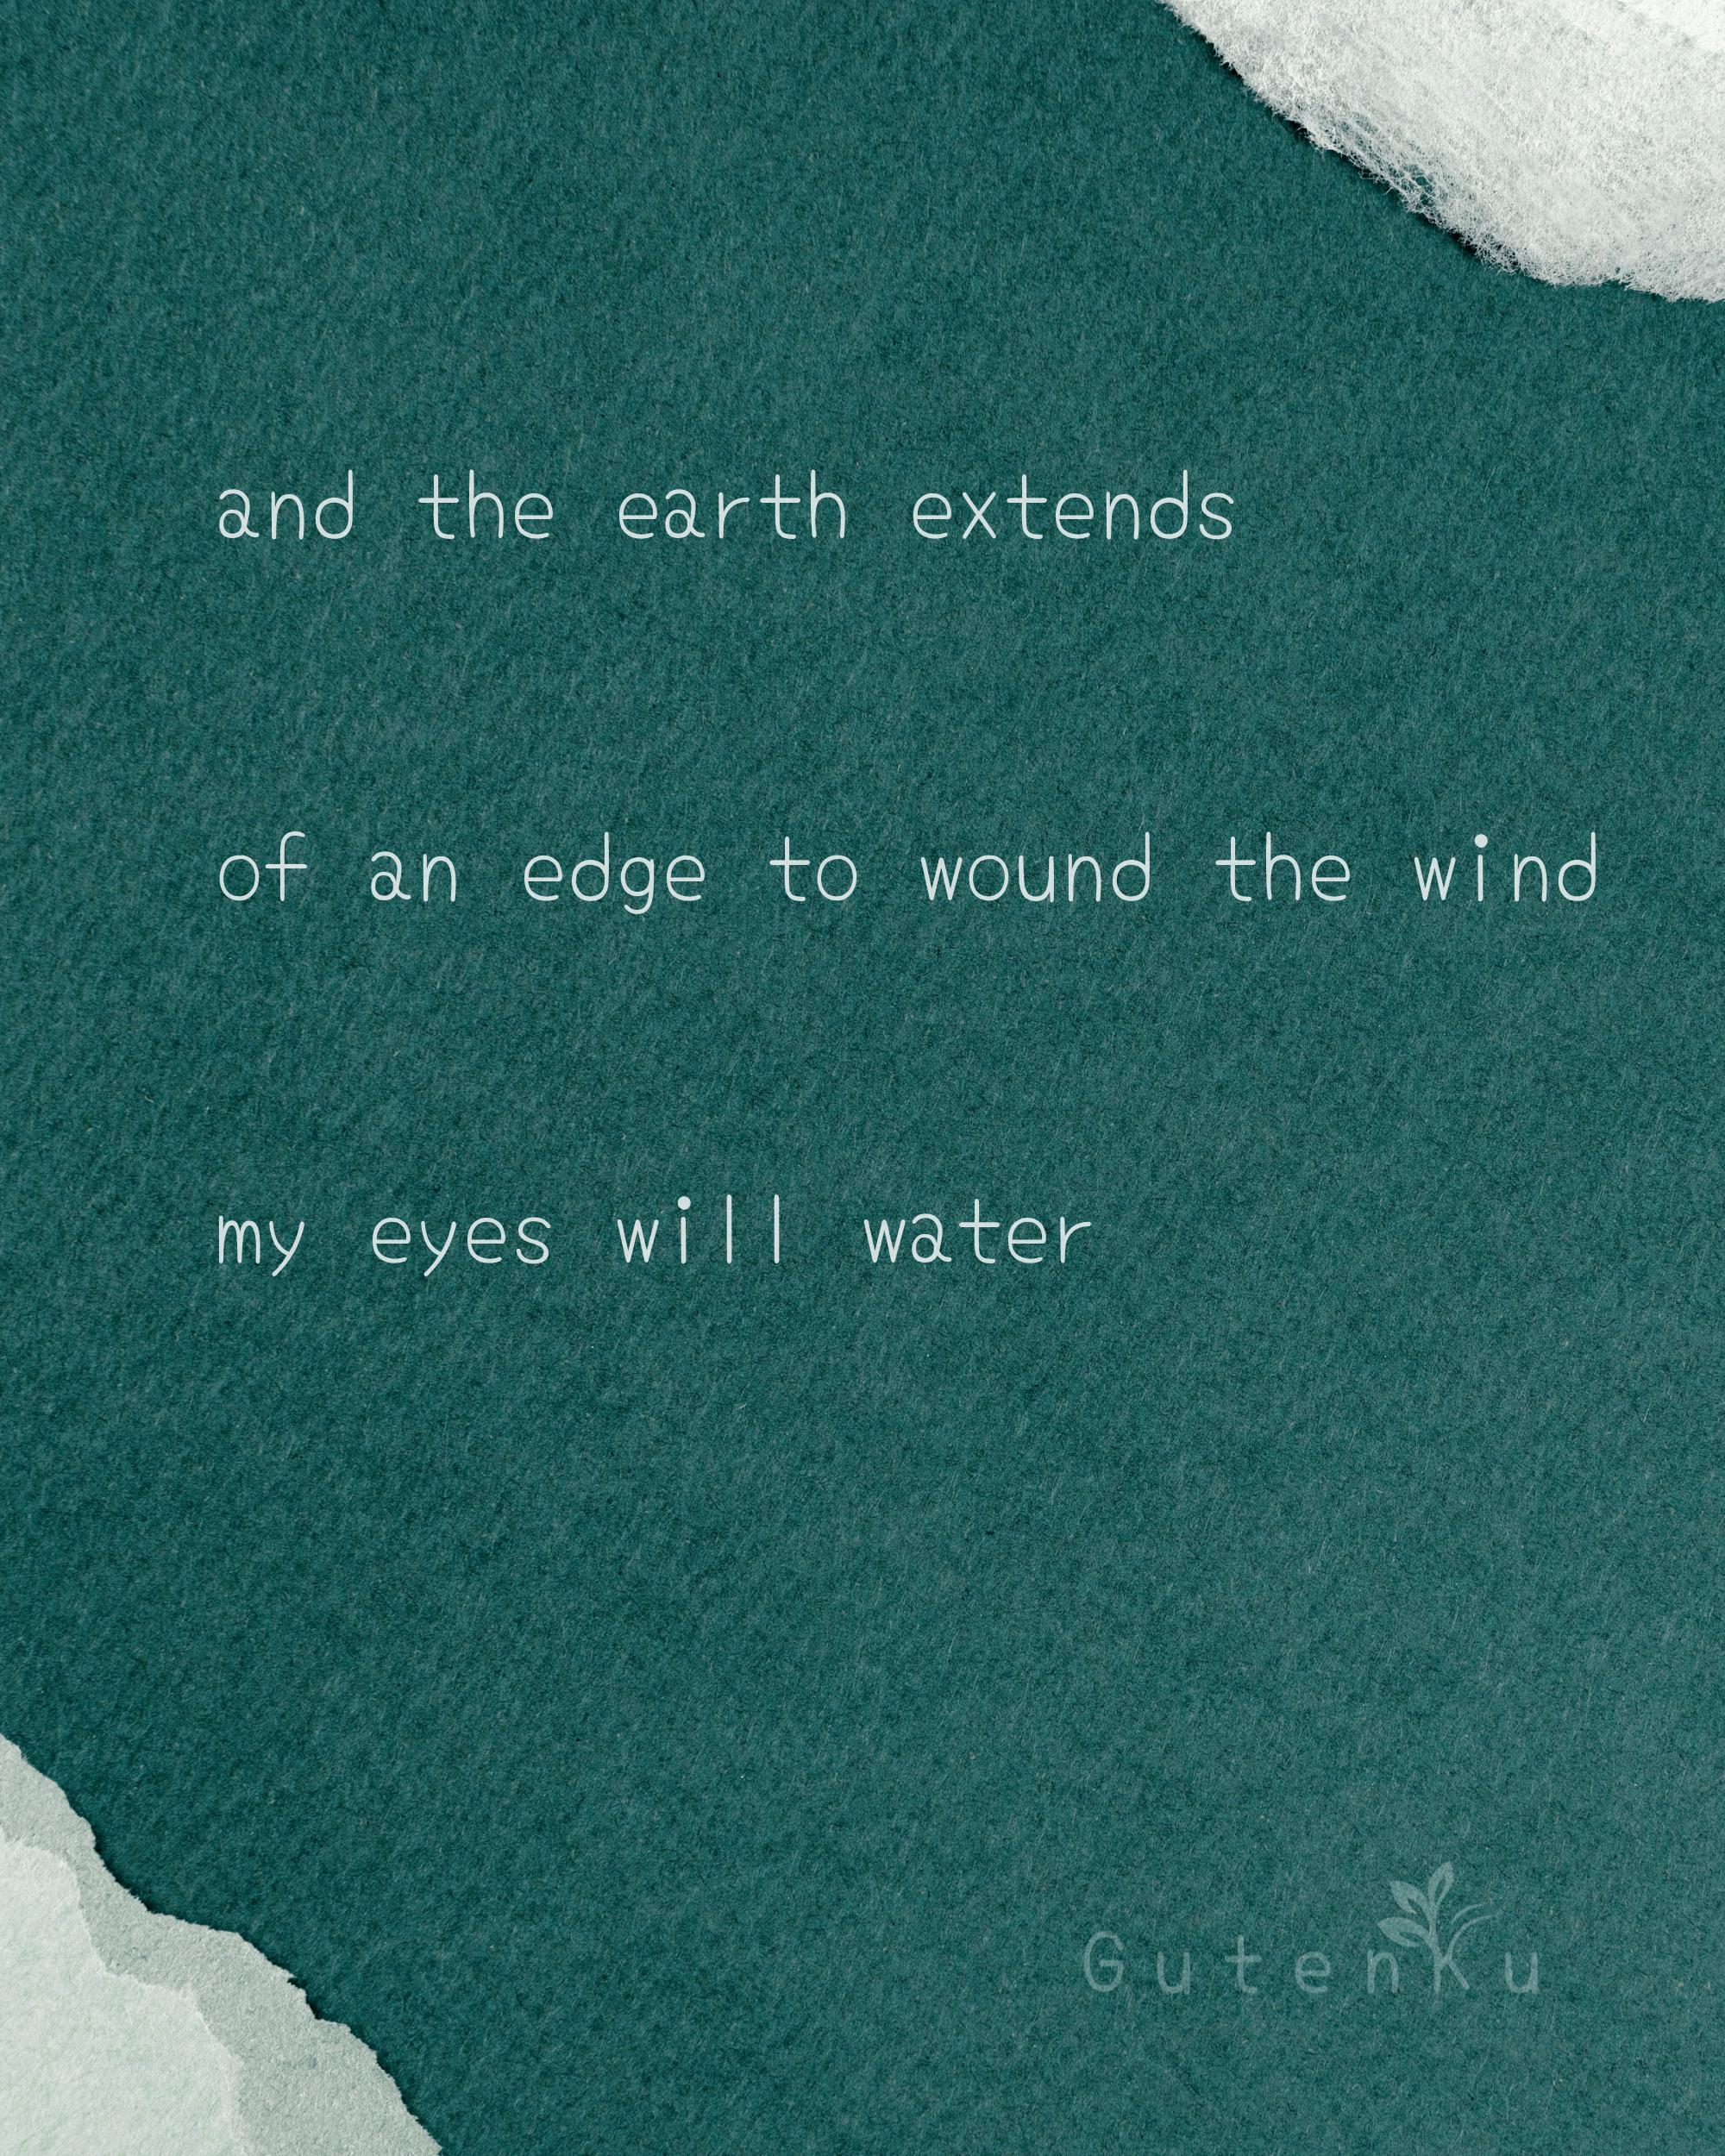
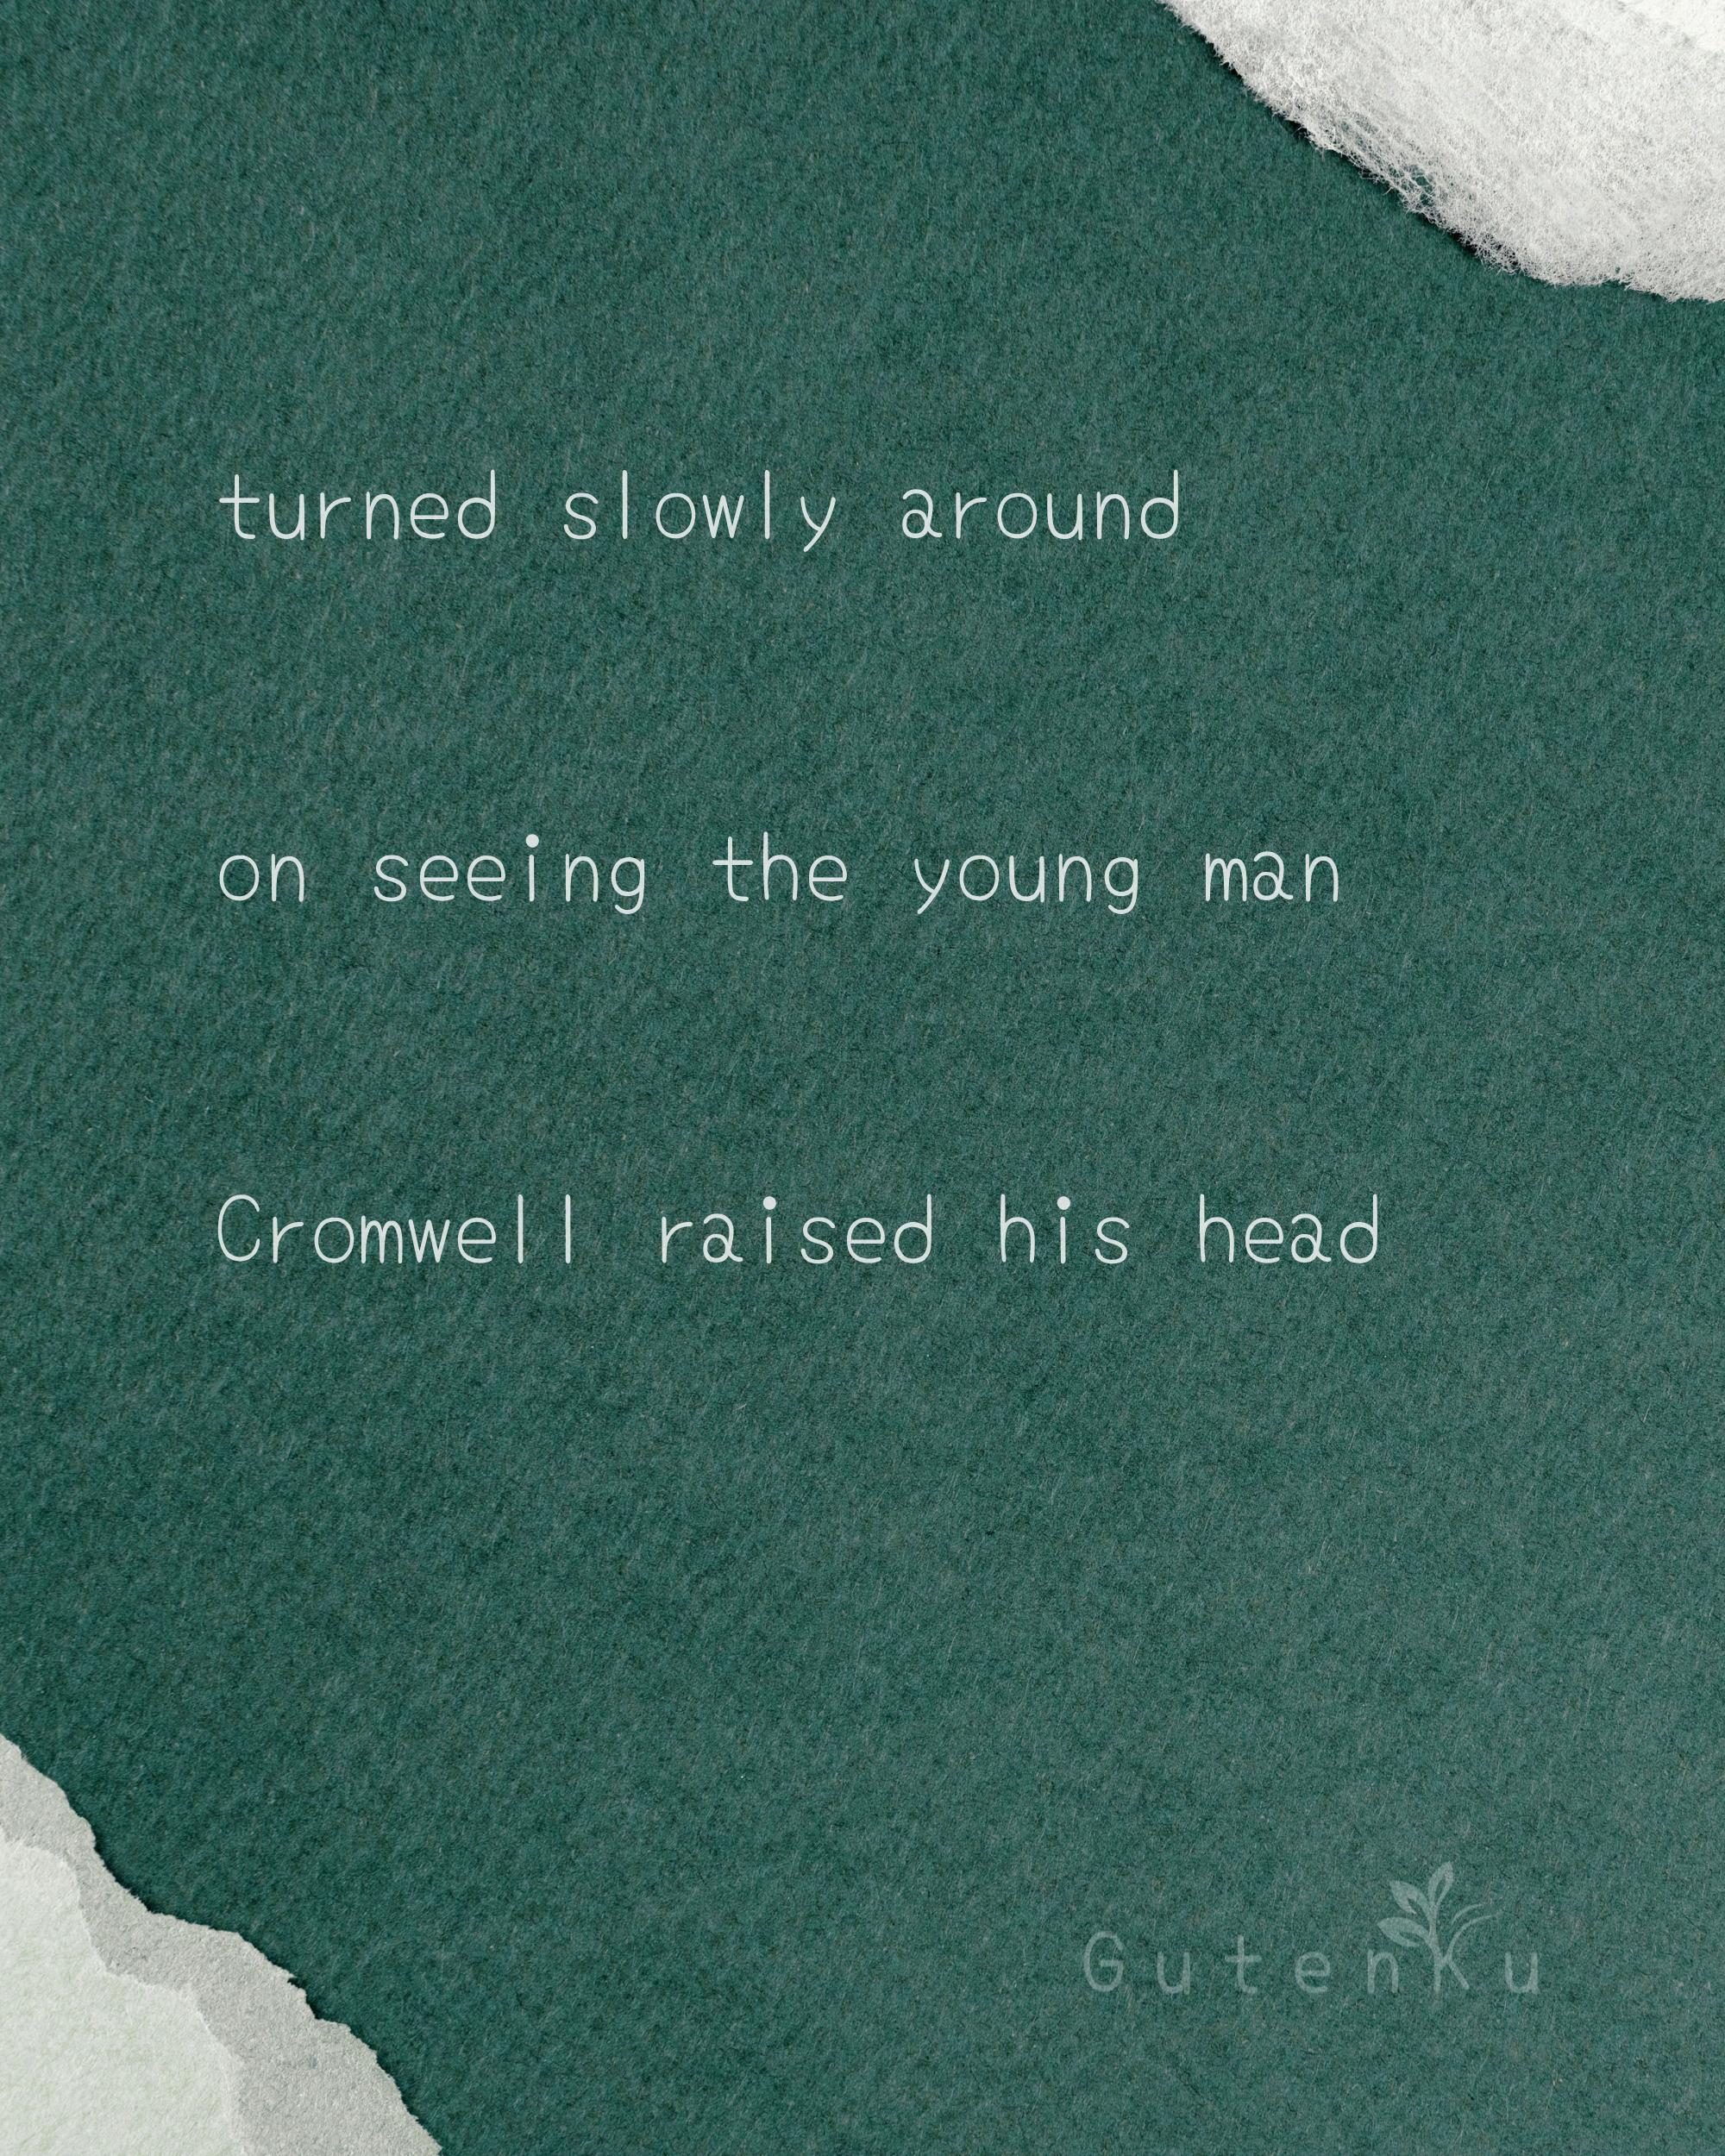
docs(readme): updated daily haiku card

diff --git a/README.md b/README.md
@@ -25,13 +25,13 @@
 <table>
 <tr>
 <td width="300" valign="top">
-<img src="/assets/img/daily_haiku_card.jpg?t=1782727230" width="280" alt="Daily Haiku Card">
+<img src="/assets/img/daily_haiku_card.jpg?t=1782813631" width="280" alt="Daily Haiku Card">
 </td>
 <td valign="top">
 
-> _"This haiku evokes a stark, almost haunting landscape where the earth seems to stretch endlessly, yet also feels sharp and dangerous, as if it has an edge that can wound even the wind. The image creates a sense of tension between vastness and fragility, suggesting that nature is both beautiful and harsh. The final line, "my eyes will water," adds a deeply human response: the speaker may be moved by wind, sorrow, or the emotional intensity of the scene. Together, the poem blends physical sensation with feeling, leaving the reader with a quiet sense of awe and melancholy."_
+> _"This haiku captures a brief but powerful scene of surprise and awareness. The phrase "turned slowly around" creates a sense of suspense, as if something important is about to be revealed. "On seeing the young man" suggests a sudden shift in attention, while "Cromwell raised his head" gives the moment dignity and alertness, as though the figure named Cromwell responds with authority or curiosity. The poem is spare and direct, but it invites the reader to imagine the relationship between the two figures and the significance of the encounter. As in much haiku, the meaning lies not only in what is said, but in the silence and tension between the lines."_
 
-— **BotenKu** 📅 _Jun 29, 2026_
+— **BotenKu** 📅 _Jun 30, 2026_
 
 </td>
 </tr>